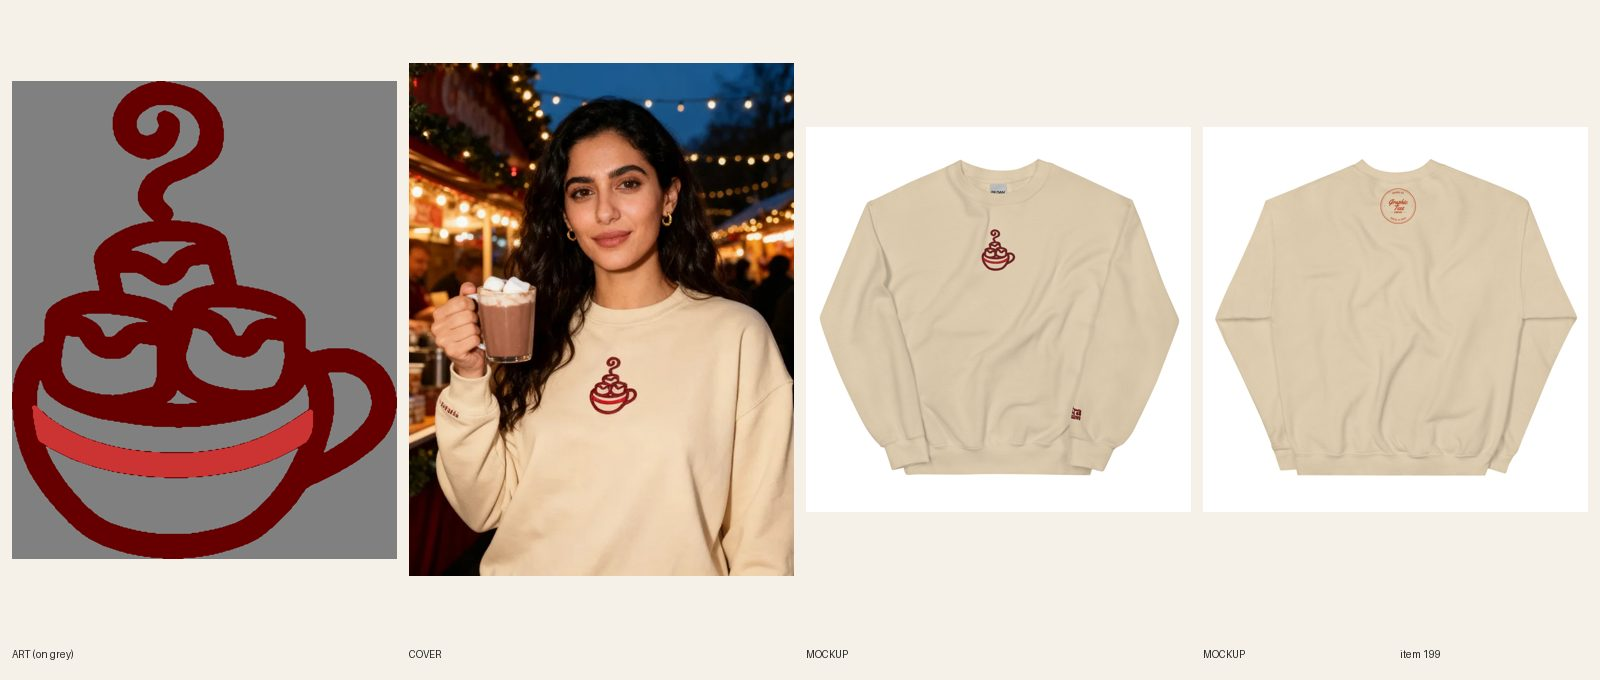
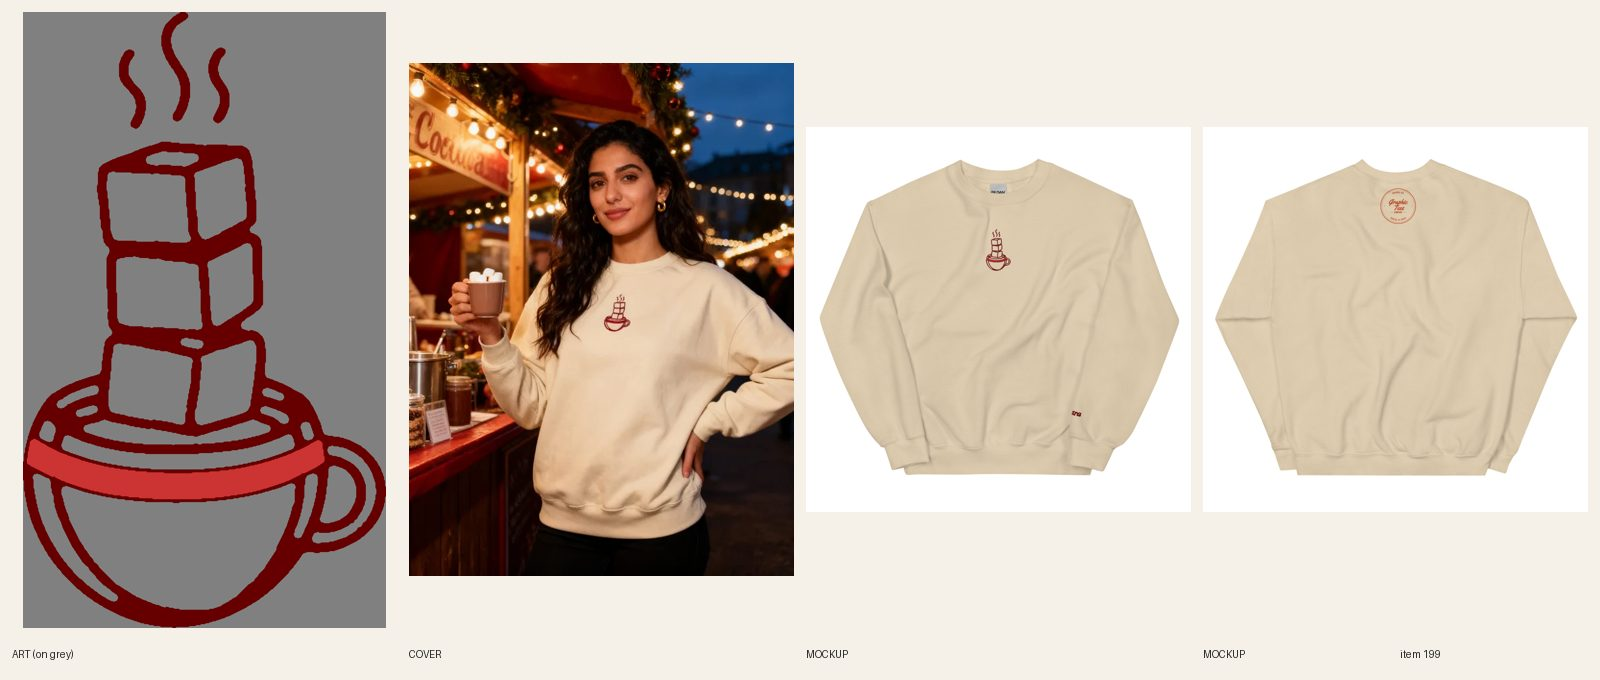
[B] redo 199 -> review
Claude-Session: https://claude.ai/code/session_01StmiBSKUktcpeqFzyhy7ya

Changed region(s): [[0.0, 0.0, 0.5, 0.9265], [0.5938, 0.3397, 0.6562, 0.4015]]

diff --git a/src/data/covers.ts b/src/data/covers.ts
@@ -200,7 +200,7 @@ export const covers: Record<string, { src: string; alt: string }> = {
   'womens-embroidered-bow-before-me-cropped-hoodie': { src: '/covers/womens-embroidered-bow-before-me-cropped-hoodie.webp', alt: 'Woman raising an iced coffee at a campus coffee shop window in fall, wearing the Bow Before Me embroidered cropped hoodie in black with a pink stitched bow' },
   'womens-christmas-winter-skate-club-penguins-hoodie': { src: '/covers/womens-christmas-winter-skate-club-penguins-hoodie.webp', alt: 'Woman with a chin-length bob and blunt bangs smiling at an outdoor ice rink at dusk under string lights, holding cocoa and wearing the sand Winter Skate Club Penguins hoodie' },
   'mens-embroidered-out-of-office-deer-hoodie': { src: '/covers/mens-embroidered-out-of-office-deer-hoodie.webp', alt: 'Man with a salt-and-pepper beard on a deer camp cabin porch at first light, holding a thermos, wearing the Out of Office embroidered deer hoodie in sand' },
-  'womens-christmas-embroidered-extra-marshmallows-crewneck-sweatshirt': { src: '/covers/womens-christmas-embroidered-extra-marshmallows-crewneck-sweatshirt.webp', alt: 'Woman holding a mug of cocoa with marshmallows at a Christmas market stand at dusk, wearing the Extra Marshmallows embroidered crewneck sweatshirt in sand' },
+  'womens-christmas-embroidered-extra-marshmallows-crewneck-sweatshirt': { src: '/covers/womens-christmas-embroidered-extra-marshmallows-crewneck-sweatshirt.webp', alt: 'Woman holding a mug of cocoa with marshmallows at a Christmas market stand at dusk, wearing the Extra Marshmallows embroidered crewneck sweatshirt in sand with a stitched cocoa mug on the chest' },
   'womens-christmas-polar-bear-cocoa-hoodie': { src: '/covers/womens-christmas-polar-bear-cocoa-hoodie.webp', alt: 'Woman with long box braids in a high bun smiling at a snowy Christmas tree lot at dusk under string lights, holding cocoa and wearing the navy Polar Bear Cocoa hoodie' },
   'womens-christmas-christmas-dogs-hoodie': { src: '/covers/womens-christmas-christmas-dogs-hoodie.webp', alt: 'Woman with short blonde hair and tortoiseshell glasses smiling in a snowy park at dusk under string lights, wearing the navy Christmas Dogs Merry Woofmas hoodie' },
   'womens-christmas-cardinal-christmas-hoodie': { src: '/covers/womens-christmas-cardinal-christmas-hoodie.webp', alt: 'Woman with a silver curly bob smiling in a sunny kitchen by a window with a snowy bird feeder outside, wearing the sand Cardinal Christmas hoodie' },

diff --git a/docs/pipeline/199-embroidered-extra-marshmallows-crewneck.md b/docs/pipeline/199-embroidered-extra-marshmallows-crewneck.md
@@ -1,4 +1,4 @@
-status: BUILDING [B] 2026-10-16
+status: REVIEW
 lane: B
 type: new
 id: 199
@@ -30,3 +30,4 @@ handle: womens-christmas-embroidered-extra-marshmallows-crewneck-sweatshirt
   1. R5.3.4 (reads instantly): the steam swirl above the mug is a single hook that reads as a big QUESTION MARK, so the chest says "cup + ?" at a glance. Redraw the steam as 2 or 3 short wavy lines (regeneration 1 of 2), and make the marshmallows read as square marshmallows (the heart shapes on them read as faces/hearts). Thinner, even line weight, closer to Style B (R4.3).
   2. R4.8 (embroidery limits): the cuff lettering (EXTRA MARSHMALLOWS stacked in 2 lines at 2 in wide) is below Printful's minimum text height. Use ONE short cuff word, "extra", in script at least 0.25 in tall, or a tiny marshmallow motif.
   3. Re-sync, new mockups, new cover (same market scene and registry row; mug at the side, never over the chest piece). Copy: update the cuff wording.
+- 2026-10-16 19:07 UTC [B]: REDO done: redo: steam is 3 short wavy lines, square marshmallows, thinner even line; cuff now the single script word 'extra' (Printful files 1087754746 chest, 1087754778 cuff, 1.5 in wide, about 0.47 in tall), 12 variants resynced, new mockups, cover and copy (cuff wording). Review sheet docs/review/199.jpg.

diff --git a/docs/intake-log.md b/docs/intake-log.md
@@ -1,5 +1,6 @@
 RUNNING lane A since 2026-10-16 19:00 UTC
 2026-10-16 19:25 UTC — [A] BUILDING #208 Women's Christmas Golf hoodie (draft built, cover, mockups, audit PASS; Printful sync queued, REVIEW when 12/12).
+2026-10-16 19:07 UTC — [B] REVIEW #199 (redo): redo: steam is 3 short wavy lines, square marshmallows, thinner even line; cuff now the single script word 'extra' (Printful files 1087754746 chest, 1087754778 cuff, 1.5 in wide, about 0.47 in tall), 12 variants resynced, new mockups, cover and copy (cuff wording).
 2026-10-16 18:52 UTC — [B] REVIEW #198 (redo): hand-lettered redo: new rust deer art (Printful file 1087751323), 14 variants resynced, new cover and mockups
 2026-10-16 18:48 UTC — [B] REVIEW #185 (redo): cover only (R6.9 redo): generated from the Sand front mockup with 3 images per call; picked the one that shows the hood and the whole line I SURVIVED LEG DAY, hands in the pouch pocket (the other two images looked like crewnecks).
 2026-10-16 18:46 UTC — [B] REVIEW #178 (redo): cover only (R6.9 redo): generated from the Sport Grey BACK mockup with 3 images per call; plain cotton-fleece hood resting behind the neck, DEER DIARY and the buck fully readable, no zipper on the back.
